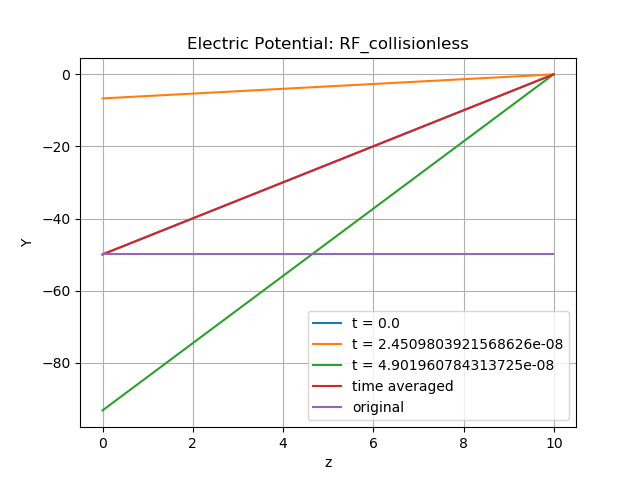
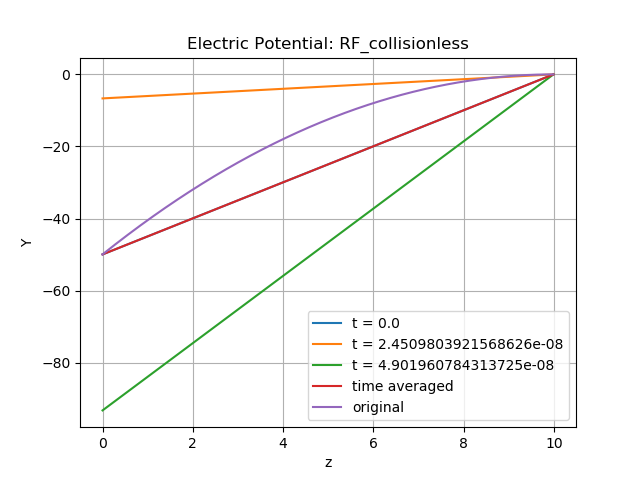
h

diff --git a/Sheath_potential_distribution.py b/Sheath_potential_distribution.py
@@ -465,17 +465,183 @@ def collisional():
     plt.legend()
     plt.savefig("Figures/Electric_Field_vs_z_RF_collisional.png")
     return [np.asarray(z_list),Y_DC_z]
-a = collisionless()
-b = collisional()
 
-plt.figure()
-plt.grid()
-plt.title("Electric Potential")
-plt.xlabel("z")
-plt.ylabel("Y")
-plt.plot(a[0],a[1], label = "collisionless" )
-plt.plot(b[0],b[1], label = "collisional" )
-plt.legend()
-plt.savefig("Figures/Electric_potential.png")
+
+def collisionless_parabola():
+    def produce_V_DC(V_RF):
+        V_DC = 0.5*np.log(2*np.pi*m_e/m_i) - np.log(iv(0,V_RF))
+        return V_DC
+
+    def produce_Y_z_init(Y_Wall_DC):
+        Y_z_init = []
+        for v in np.arange(len(z_list)):
+            Y_z_init.append(Y_Wall_DC *(z_list[v]/z_list[-1] - 1)**2)
+        return np.asarray(Y_z_init)
+
+    def produce_Y_z_t(Y_DC,Q_init):
+        Y_z_t=[]
+        #print("Y_DC = ",Y_DC)
+        for i in np.arange(len(T_list)):
+            Y_init_val = Y_DC[0] +  V_RF*np.sin(omega*T_list[i]) 
+            Q_init_val = Q_init[i]
+            #print("HOOOOOO")
+            res = produce_Y_z(Y_init_val,Q_init_val,Y_DC)
+            #print("HEEEEE")
+            Y_last = res[0][-1]
+            while(Y_last < Y_epsilon):
+                Q_init_val += Q_init_val*0.5
+                res = produce_Y_z(Y_init_val,Q_init_val,Y_DC)
+                Y_last = res[0][-1]
+                print("Y_last = ", Y_last)
+            #BISECTION
+            a = Q_init_val
+            b = Q_init_val/2
+            Y_last_a = Y_last
+            Y_last_epsilon = np.abs(Y_last)
+            Y_last_c = 0
+            while(Y_last_epsilon > Y_epsilon_bisection):
+                c = (a+b)/2
+                res = produce_Y_z(Y_init_val,c,Y_DC)
+                Y_last_c = res[0][-1]
+                if (Y_last_c*Y_last_a > 0):
+                    a = c
+                    Y_last_a = Y_last_c
+                else:
+                    b = c
+                Y_last_epsilon = np.abs(Y_last_c)
+                print("Y_last_epsilon = ", Y_last_epsilon)
+            Q_init[i] = b
+            Y_z_t.append(produce_Y_z(Y_init_val,b,Y_DC)[0])
+        return np.asarray([Y_z_t,Q_init])
+    
+    def produce_Y_z(Y_z_init,Q_z_init,Y_DC_vals):
+        Y_z = [Y_z_init]
+        Q_z = [Q_z_init]
+        for v in np.arange(len(z_list) - 1):
+            Y_DC_select = [Y_DC_vals[v],Y_DC_vals[v+1]]
+            #print("Q_z[v] = ",Q_z[v])
+            a = step_Y_z(Y_z[v],Q_z[v],Y_DC_select)
+            Y_z.append(a[0])
+            Q_z.append(a[1])
+        return np.asarray([Y_z,Q_z])
+
+    def step_Y_z(Y_z_0,Q_z_0,Y_DC_z):
+        #print("HO")
+        Y_DC_z_half = (Y_DC_z[1] + Y_DC_z[0])/2
+        k1 = f_der_Y_z(Y_z_0,Q_z_0, Y_DC_z[0])*dz
+        k2 = f_der_Y_z(Y_z_0 + k1[0]/2,Q_z_0 + k1[1]/2, Y_DC_z_half)*dz
+        k3 = f_der_Y_z(Y_z_0 + k2[0]/2,Q_z_0 + k2[1]/2, Y_DC_z_half)*dz
+        k4 = f_der_Y_z(Y_z_0 + k3[0],Q_z_0 + k3[1], Y_DC_z[1])*dz
+        Y_z_1 = Y_z_0 + (k1[0] + 2*k2[0] + 2*k3[0] + k4[0])/6.0
+        Q_z_1 = Q_z_0 + (k1[0] + 2*k2[0] + 2*k3[0] + k4[0])/6.0
+        return np.asarray([Y_z_1,Q_z_1])
+
+    def f_der_Y_z(Y_z_n,Q_z_n,Y_DC_n):
+        a = Q_z_n
+        b = np.exp(Y_z_n) - (1-2*Y_DC_n)**(-0.5)
+        #print(Y_DC_n)
+
+        #print("dQ/dx = ",np.exp(Y_z_n), - (1-2*Y_DC_n)**(-0.5))
+        #print("dY/dx = ",a)
+        #print("dQ/dx = ",b)
+        return np.asarray([a,b])
+    
+    def produce_Y_DC_converge(Y_DC_z_init,Q_init):
+        #print("YEET")
+        a = produce_Y_z_t(Y_DC_z_init,Q_init)
+        Y_z_t_converge = a[0]
+        Q_init_converge = a[1]
+        Y_DC_converge = produce_Y_DC(Y_z_t_converge)
+        Y_difference = produce_Y_difference(0,Y_DC_converge)
+        #print("YEET")
+        reps = 0
+        while(Y_difference > Y_DC_epsilon):
+            reps+=1
+            #print("LANGUAGE")
+            Y_DC_temp = np.copy(Y_DC_converge)
+            a = produce_Y_z_t(Y_DC_converge,Q_init_converge)
+            Y_z_t_converge = a[0]
+            Q_init_converge = a[1]
+            Y_DC_converge = produce_Y_DC(Y_z_t_converge)
+            Y_difference = produce_Y_difference(Y_DC_temp,Y_DC_converge)
+        return np.asarray([Y_z_t_converge,Y_DC_converge,Q_init_converge])
+
+    def produce_Y_DC(Y):
+        Y_DC = []
+        for v in np.arange(len(z_list)):
+            a = []
+            for i in np.arange(len(T_list)):
+                a.append(Y[i][v])
+            Y_DC.append(np.mean(a))
+        return np.asarray(Y_DC)
+
+    def produce_Y_difference(Y_bar_temp, Y_bar): 
+        a = Y_bar_temp -  Y_bar
+        return np.linalg.norm(a)/np.linalg.norm(Y_bar)
+    
+    z_list = produce_z_vals()
+    T_list = produce_T_vals()
+    V_DC = produce_V_DC(V_RF)
+    Y_z_init = produce_Y_z_init(V_DC)
+    print("Y_z_init = ",Y_z_init)
+    plt.figure()
+    plt.plot(z_list,Y_z_init)
+    init_grad = ((Y_z_init[1]-Y_z_init[0])/dz)
+    print("init grad = ", init_grad)
+    Q_init = np.asarray([1e-3*init_grad]*len(T_list))
+    results = produce_Y_DC_converge(Y_z_init,Q_init)
+    Y_z_t = results[0]
+    Y_DC_z = results[1]
+    Q_final = results[2]
+
+    def produce_electric_field(Y,Q_init_val):
+        Q = [Q_init_val]
+        for v in np.arange(1,len(z_list) - 1):
+            Q.append((Y[v+1] - Y[v-1])/(2*dz))
+        Q.append(Q[-1])
+        return Q
+
+    E = []
+    for i in np.arange(len(T_list)):
+        E.append(produce_electric_field(Y_z_t[i],Q_final[i]))
+    E_average = produce_Y_DC(E)
+
+    plt.figure()
+    plt.grid()
+    plt.title("Electric Potential: RF_collisionless")
+    plt.xlabel("z")
+    plt.ylabel("Y")
+    for i in np.arange(len(T_list)):
+        plt.plot(np.asarray(z_list),Y_z_t[i] , label = "t = " + str(T_list[i]))
+    plt.plot(np.asarray(z_list),Y_DC_z, label = "time averaged" )
+    plt.plot(np.asarray(z_list),Y_z_init, label = "original")
+    plt.legend()
+    plt.savefig("Figures/Electric_potential_vs_z_RF_collisionless.png")
+
+    plt.figure()
+    plt.grid()
+    plt.title("Electric Field: RF_collisionless")
+    plt.xlabel("z")
+    plt.ylabel("E")
+    for i in np.arange(len(T_list)):
+        plt.plot(np.asarray(z_list),E[i] , label = "t = " + str(T_list[i]))
+    plt.plot(np.asarray(z_list),E_average, label = "time averaged" )
+    plt.legend()
+    plt.savefig("Figures/Electric_Field_vs_z_RF_collisionless.png")
+    return [np.asarray(z_list),Y_DC_z]
+
+#a = collisionless()
+#b = collisional()
+c = collisionless_parabola()
+
+# plt.figure()
+# plt.grid()
+# plt.title("Electric Potential")
+# plt.xlabel("z")
+# plt.ylabel("Y")
+# plt.plot(a[0],a[1], label = "collisionless" )
+# plt.plot(b[0],b[1], label = "collisional" )
+# plt.legend()
+# plt.savefig("Figures/Electric_potential.png")
 
 plt.show()
